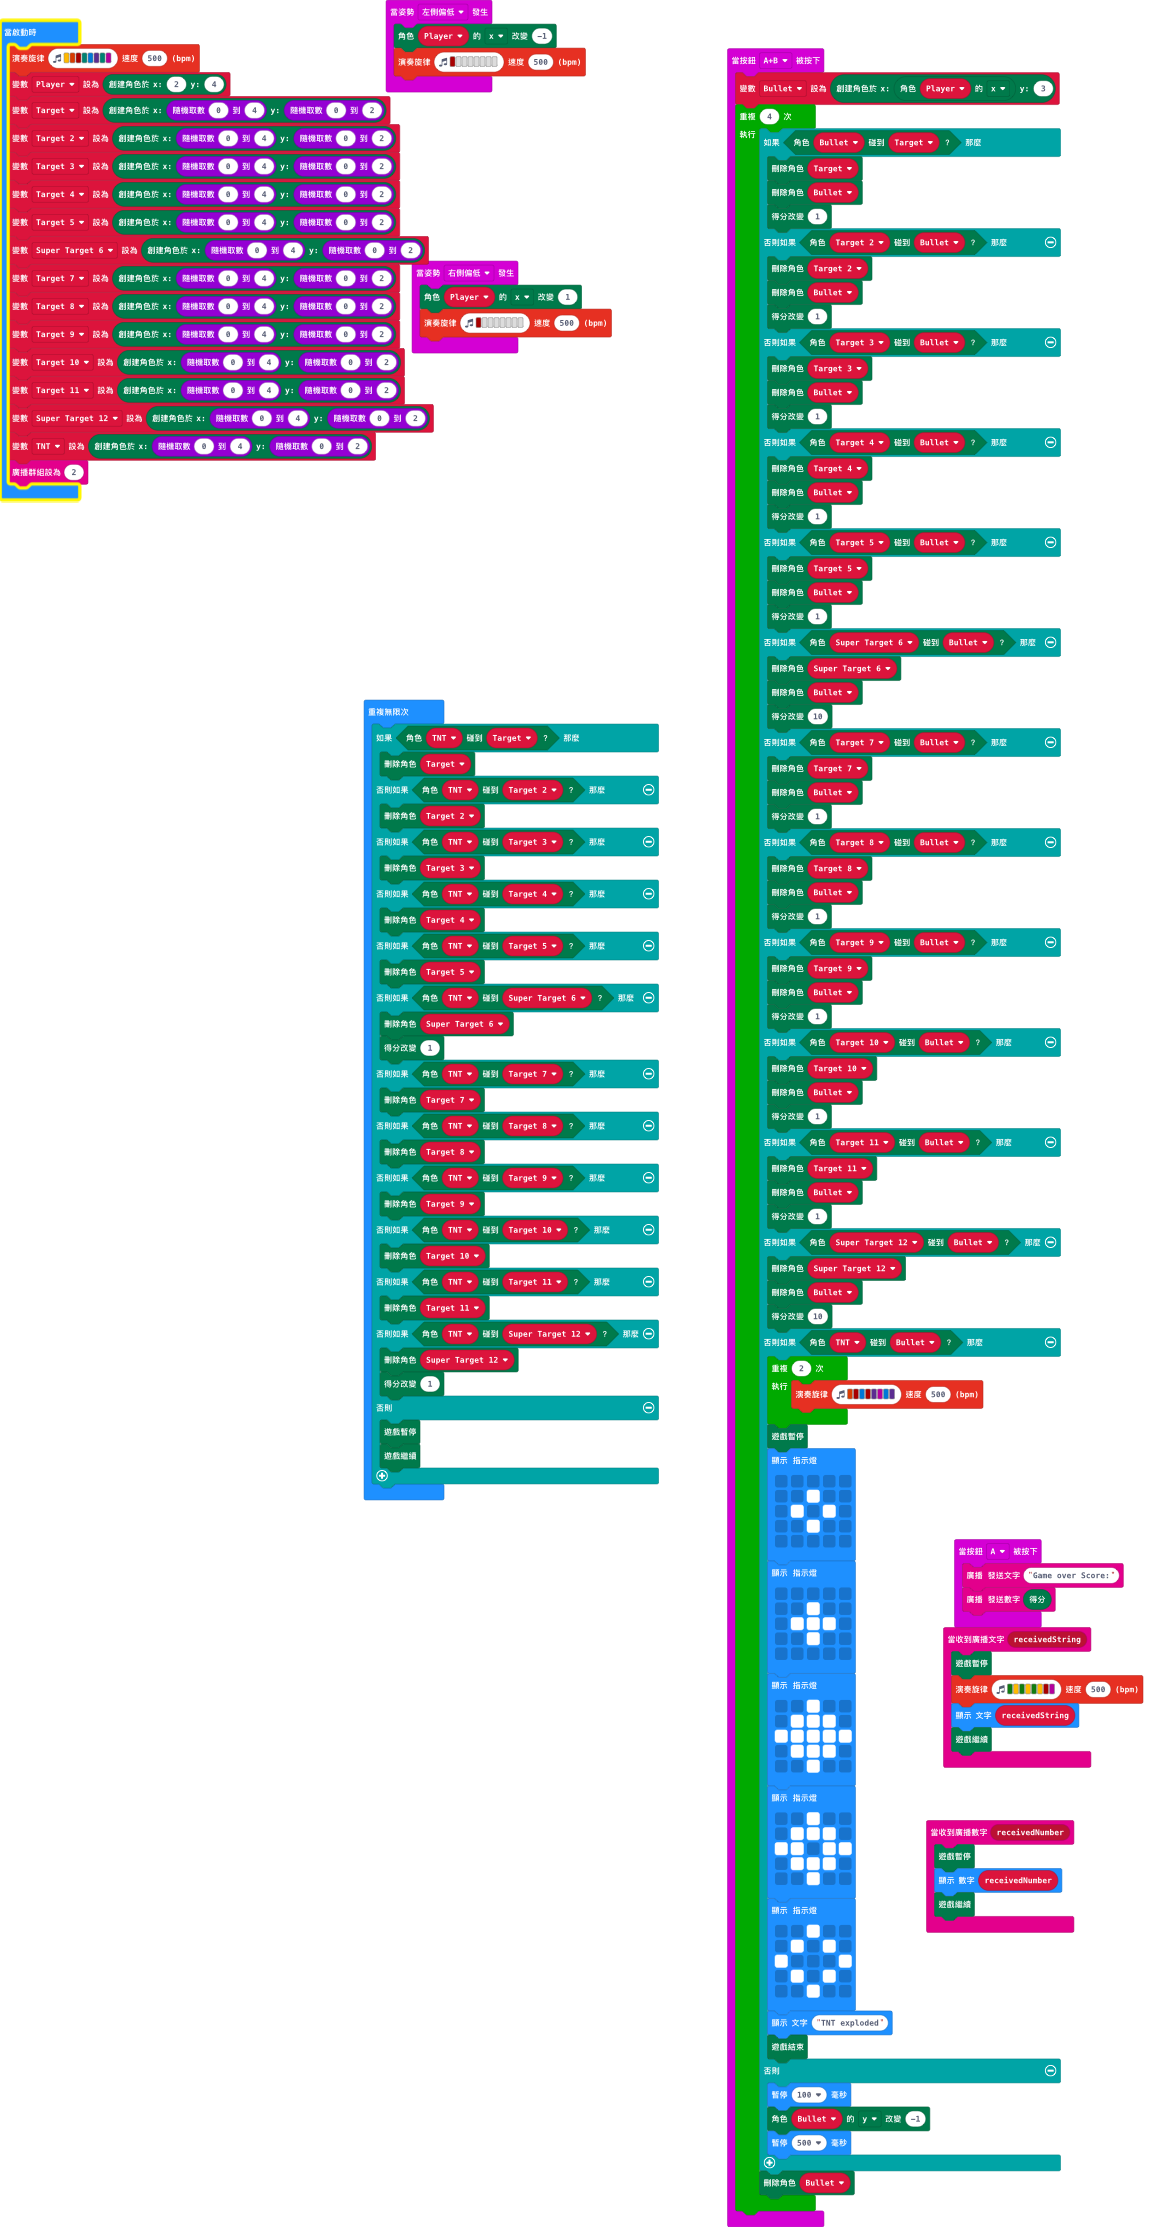
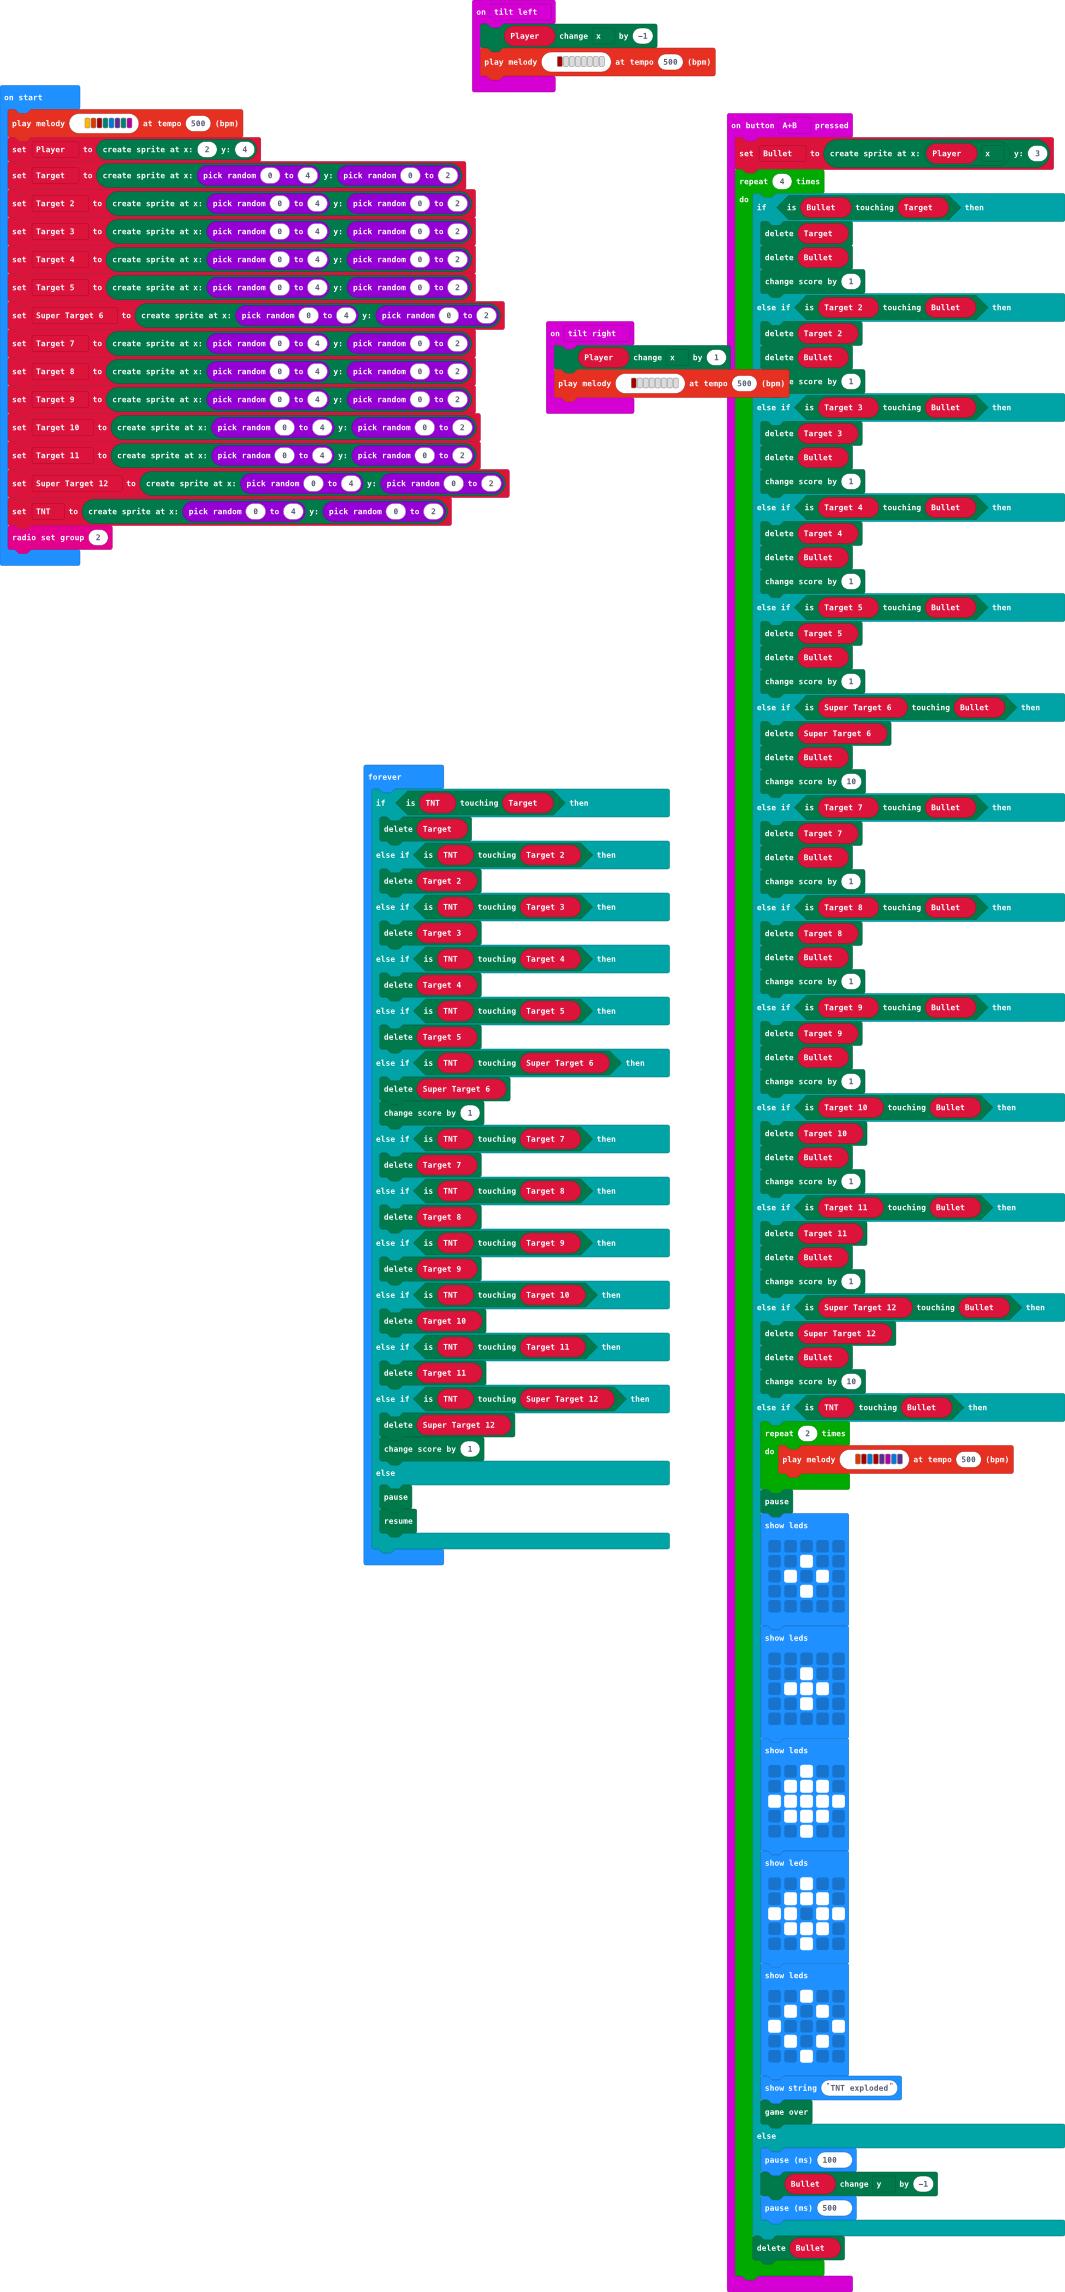
Update pxt.json, main.blocks, main.ts

diff --git a/main.ts b/main.ts
@@ -1,15 +1,6 @@
-radio.onReceivedNumber(function (receivedNumber) {
-    game.pause()
-    basic.showNumber(receivedNumber)
-    game.resume()
-})
 input.onGesture(Gesture.TiltLeft, function () {
     Player.change(LedSpriteProperty.X, -1)
     music.playMelody("C5 - - - - - - - ", 500)
-})
-input.onButtonPressed(Button.A, function () {
-    radio.sendString("Game over Score:")
-    radio.sendNumber(game.score())
 })
 input.onButtonPressed(Button.AB, function () {
     Bullet = game.createSprite(Player.get(LedSpriteProperty.X), 3)
@@ -111,12 +102,6 @@ input.onButtonPressed(Button.AB, function () {
         }
         Bullet.delete()
     }
-})
-radio.onReceivedString(function (receivedString) {
-    game.pause()
-    music.playMelody("G A G A G A C5 C ", 500)
-    basic.showString(receivedString)
-    game.resume()
 })
 input.onGesture(Gesture.TiltRight, function () {
     Player.change(LedSpriteProperty.X, 1)
